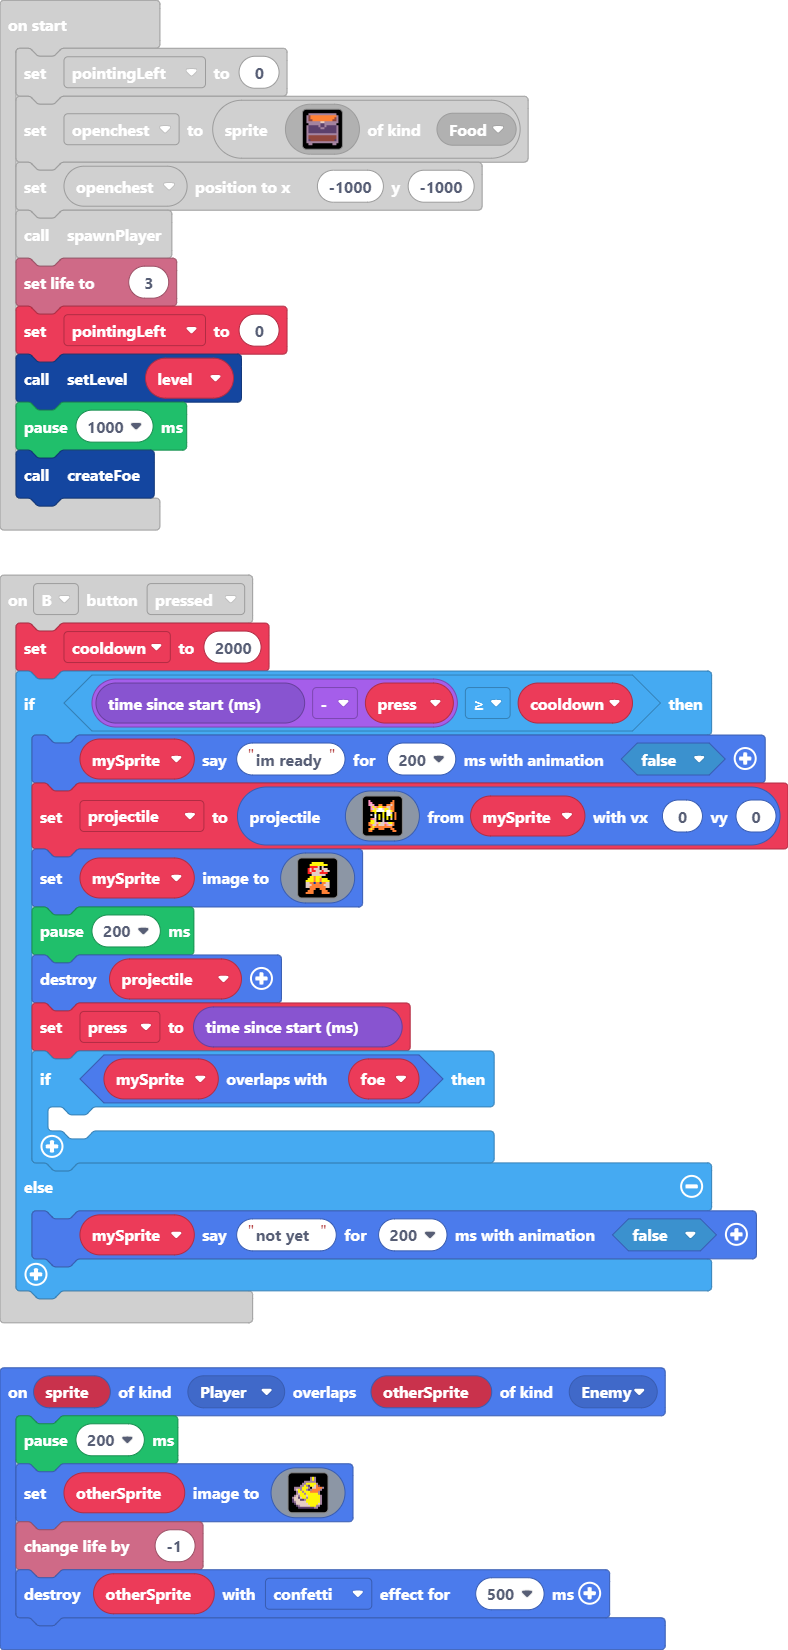
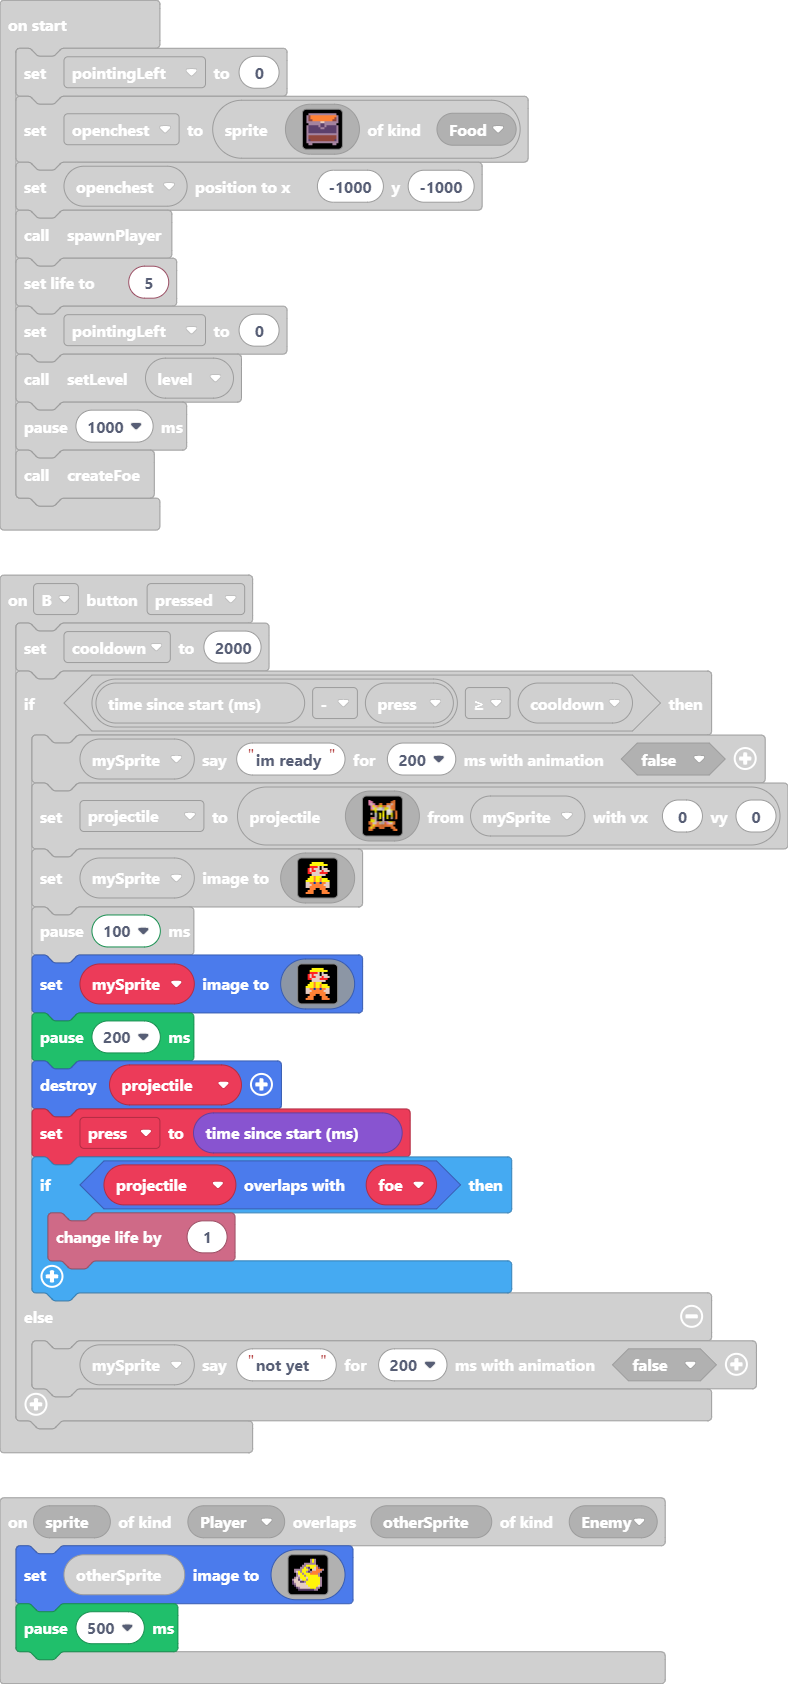
Update main.blocks, main.ts, images.g.jres, images.g.ts

diff --git a/images.g.ts b/images.g.ts
@@ -41,25 +41,6 @@ d d d . . 8 2 8 8 8 5 8 5 8 2 2
 . 2 2 2 8 8 8 8 8 8 8 . . . . . 
 . 2 . . 8 8 8 8 . . . . . . . . 
 `;
-            case "image3":
-            case "sabre":return img`
-. 3 . . . . . . . . . . . 4 . . 
-. 3 3 . . . . . . . . . 4 4 . . 
-. 3 d 3 . . 4 4 . . 4 4 d 4 . . 
-. . 3 5 3 4 5 5 4 4 d d 4 4 . . 
-. . 3 d 5 d 1 1 d 5 5 d 4 4 . . 
-. . 4 5 5 1 1 1 1 5 1 1 5 4 . . 
-. f f f 5 f f f 5 f 1 1 d f 4 . 
-. f d f 1 f 5 f 5 f 1 1 5 f 4 . 
-. f f f 1 f 5 f 5 f 5 f 5 f 4 . 
-. f 4 3 d f 5 f d f 5 f d f 4 . 
-. f 5 5 d f f f d f f f f f . . 
-. 4 5 5 d 3 5 d d 3 d 5 5 4 . . 
-. 4 4 d d 4 d d d 4 3 d d 4 . . 
-. . 4 5 4 4 4 4 4 4 4 4 4 . . . 
-. 4 5 4 . . 4 4 4 . . . 4 4 . . 
-. 4 4 . . . . . . . . . . 4 4 . 
-`;
             case "image4":
             case "strapped":return img`
 . . . . . 5 5 5 5 5 5 . . . . . 
@@ -78,6 +59,39 @@ d d d . . 8 2 8 8 8 5 8 5 8 2 2
 . . . . 4 4 4 . . 4 4 4 . . . . 
 . . . 4 4 4 . . . . 4 4 4 . . . 
 . . 4 4 4 4 . . . . 4 4 4 4 . . 
+`;
+            case "image3":
+            case "sabre":return img`
+..33.....................44...
+..3333.................4444...
+..3333.................4444...
+..33dd33....444....4444dd44...
+..33dd33....444....4444dd44...
+....335533445554444dddd4444...
+....335533445554444dddd4444...
+....33dd55dd111dd5555dd4444...
+....33dd55dd111dd5555dd4444...
+....44555511111115511115544...
+..ffffff55fffff55ff1111ddff44.
+..ffffff55fffff55ff1111ddff44.
+..ffddff11ff55f55ff111155ff44.
+..ffddff11ff55f55ff111155ff44.
+..ffffff11ff55f55ff55ff55ff44.
+..ffffff11ff55f55ff55ff55ff44.
+..ff4433ddff55fddff55ffddff44.
+..ff4433ddff55fddff55ffddff44.
+..ff5555ddfffffddffffffffff...
+..ff5555ddfffffddffffffffff...
+..445555dd3355ddd33dd555544...
+..4444dddd44ddddd4433dddd44...
+..4444dddd44ddddd4433dddd44...
+....445544444444444444444.....
+....445544444444444444444.....
+..445544....44444......4444...
+..445544....44444......4444...
+..4444...................4444.
+..4444...................4444.
+..............................
 `;
         }
         return null;

diff --git a/main.ts b/main.ts
@@ -173,11 +173,13 @@ controller.B.onEvent(ControllerButtonEvent.Pressed, function () {
         mySprite.sayText("im ready", 200, false)
         projectile = sprites.createProjectileFromSprite(assets.image`sabre`, mySprite, 0, 0)
         mySprite.setImage(assets.image`strapped`)
+        pause(100)
+        mySprite.setImage(assets.image`strapped`)
         pause(200)
         projectile.destroy()
         press = game.runtime()
-        if (mySprite.overlapsWith(foe)) {
-        	
+        if (projectile.overlapsWith(foe)) {
+            info.changeLifeBy(1)
         }
     } else {
         mySprite.sayText("not yet", 200, false)
@@ -374,7 +376,6 @@ sprites.onOverlap(SpriteKind.Projectile, SpriteKind.Enemy, function (sprite, oth
     otherSprite.destroy()
 })
 sprites.onOverlap(SpriteKind.Player, SpriteKind.Enemy, function (sprite, otherSprite) {
-    pause(200)
     otherSprite.setImage(img`
         . . . . . . . . . b 5 b . . . . 
         . . . . . . . . . b 5 b . . . . 
@@ -393,8 +394,7 @@ sprites.onOverlap(SpriteKind.Player, SpriteKind.Enemy, function (sprite, otherSp
         . . c b d d d d d 5 5 5 b b . . 
         . . . c c c c c c c c b b . . . 
         `)
-    info.changeLifeBy(-1)
-    otherSprite.destroy()
+    pause(500)
 })
 let cloudTypeTwo: Sprite = null
 let cloudTypeOne: Sprite = null
@@ -427,7 +427,7 @@ openchest = sprites.create(img`
     `, SpriteKind.Food)
 openchest.setPosition(-1000, -1000)
 spawnPlayer()
-info.setLife(3)
+info.setLife(5)
 pointingLeft = 0
 setLevel(level)
 pause(1000)
